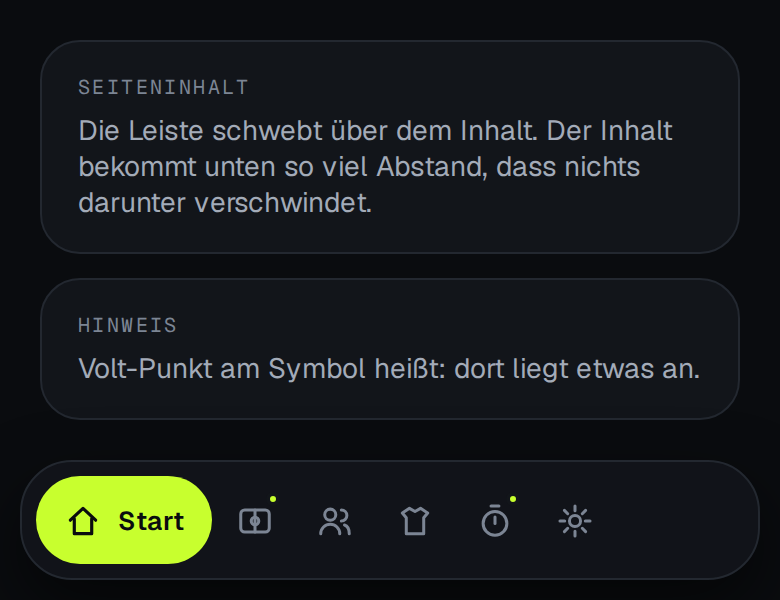
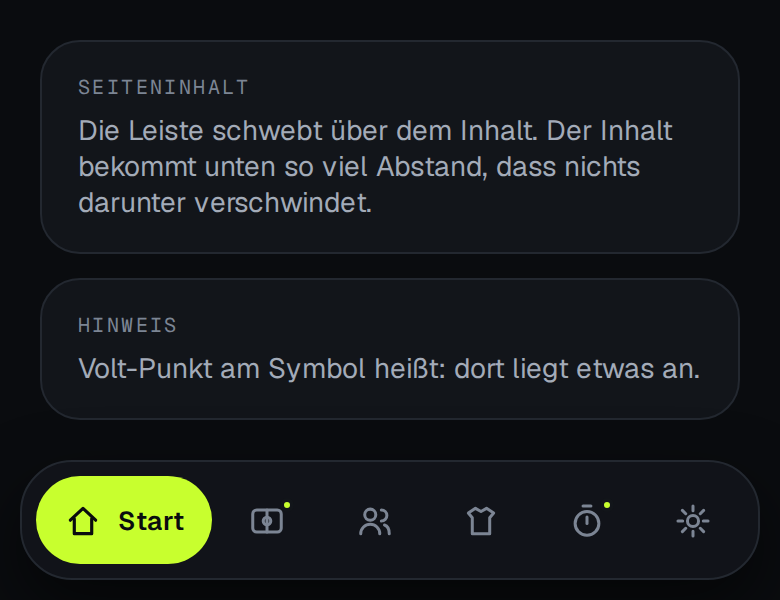
Menüleiste: inaktive Ziele füllen die Leiste randvoll (korrigierte Vorlage)
Die erste Umsetzung gab inaktiven Zielen eine feste 38px-Breite —
blieb bei fünf Zielen (Spieler-Ansicht) rechts sichtbar Leerraum in
der Leiste, statt dass sich die Ziele über die volle Breite verteilen.
Jetzt flex: 1 1 0 für inaktive statt fester Breite, aktives Ziel
flex: 0 0 auto; Transition entsprechend auf flex-grow/padding/gap/
Farbe umgestellt statt width.

Hinweispunkt hängt jetzt am Symbol selbst (eigener position:relative-
Wrapper um nur das SVG), nicht mehr an der ganzen (variabel breiten)
Spalte — sonst würde er bei einer breiten Spalte weit neben dem Symbol
schweben.

Claude-Session: https://claude.ai/code/session_01NRCwoA9JTKQ3Fh1Hs8P7yA

diff --git a/team-app/docs/design/tipoff-design/elements/08-menueleiste/menueleiste.html b/team-app/docs/design/tipoff-design/elements/08-menueleiste/menueleiste.html
@@ -47,23 +47,26 @@ body{margin:0;background:var(--to-bg);color:var(--to-text);
   box-shadow:0 14px 34px rgba(0,0,0,.55)}
 @media (min-width:430px){ .nav{left:calc(50% - 185px);right:auto;width:370px} }
 
+/* inaktiv: gleiche Spaltenbreite über die ganze Leiste; aktiv: nur so breit wie der Text */
 .tab{display:flex;align-items:center;justify-content:center;gap:0;
-  width:38px;height:44px;flex:none;border:0;border-radius:999px;background:transparent;
-  color:var(--to-text-3);text-decoration:none;position:relative;cursor:pointer;
+  flex:1 1 0;min-width:0;height:44px;padding:0;border:0;border-radius:999px;background:transparent;
+  color:var(--to-text-3);text-decoration:none;cursor:pointer;
   -webkit-tap-highlight-color:transparent;
-  transition:width .18s ease,background-color .18s ease,color .18s ease,padding .18s ease}
+  transition:flex-grow .18s ease,padding .18s ease,gap .18s ease,
+             background-color .18s ease,color .18s ease}
 .tab svg{width:19px;height:19px;flex:none;fill:none;stroke:currentColor;stroke-width:1.9;
   stroke-linecap:round;stroke-linejoin:round}
+.tab__icon{position:relative;display:flex;flex:none}
 .tab__label{max-width:0;overflow:hidden;white-space:nowrap;opacity:0;
   font-size:13px;font-weight:600;letter-spacing:-.01em;
-  transition:max-width .18s ease,opacity .14s ease,margin .18s ease}
+  transition:max-width .18s ease,opacity .14s ease}
 
-.tab[aria-current="page"]{width:auto;padding:0 14px;gap:8px;
+.tab[aria-current="page"]{flex:0 0 auto;padding:0 14px;gap:8px;
   background:var(--to-accent);color:var(--to-on-accent)}
 .tab[aria-current="page"] svg{stroke-width:2}
-.tab[aria-current="page"] .tab__label{max-width:140px;opacity:1}
+.tab[aria-current="page"] .tab__label{max-width:160px;opacity:1}
 
-.tab__dot{position:absolute;top:8px;right:6px;width:7px;height:7px;border-radius:50%;
+.tab__dot{position:absolute;top:-2px;right:-4px;width:7px;height:7px;border-radius:50%;
   background:var(--to-accent);border:2px solid #12151A}
 .tab[aria-current="page"] .tab__dot{display:none}
 
@@ -123,8 +126,8 @@ function render() {
     return '<a class="tab" href="#" data-key="' + k + '"' +
            (on ? ' aria-current="page"' : '') +
            ' aria-label="' + t.label + '">' +
-           '<svg viewBox="0 0 24 24" aria-hidden="true">' + t.icon + '</svg>' +
-           '<span class="tab__label">' + t.label + '</span>' + dot + '</a>';
+           '<span class="tab__icon"><svg viewBox="0 0 24 24" aria-hidden="true">' + t.icon + '</svg>' + dot + '</span>' +
+           '<span class="tab__label">' + t.label + '</span></a>';
   }).join('');
 }
 render();

diff --git a/team-app/src/components/BottomNav.tsx b/team-app/src/components/BottomNav.tsx
@@ -119,29 +119,31 @@ export function BottomNav() {
           end={item.end}
           aria-label={item.label}
           className={({ isActive }) =>
-            `relative flex h-11 flex-none cursor-pointer items-center justify-center gap-0 rounded-full text-to-text3 no-underline transition-[width,background-color,color,padding] duration-[180ms] ease-out ${
-              isActive ? 'w-auto gap-2 bg-to-accent px-3.5 text-to-onAccent' : 'w-[38px]'
+            `flex h-11 min-w-0 cursor-pointer items-center justify-center gap-0 rounded-full p-0 text-to-text3 no-underline transition-[flex-grow,padding,gap,background-color,color] duration-[180ms] ease-out ${
+              isActive ? 'flex-none gap-2 bg-to-accent px-3.5 text-to-onAccent' : 'flex-1'
             }`
           }
         >
           {({ isActive }) => (
             <>
-              <span className={isActive ? '[&_svg]:stroke-2' : ''}>
-                <item.Icon />
+              <span className="relative flex flex-none">
+                <span className={isActive ? '[&_svg]:stroke-2' : ''}>
+                  <item.Icon />
+                </span>
+                {!isActive && NO_BADGES.has(item.key) && (
+                  <>
+                    <span className="absolute -right-1 -top-0.5 h-[7px] w-[7px] rounded-full border-2 border-to-surface bg-to-accent" />
+                    <span className="sr-only">Es liegt etwas an</span>
+                  </>
+                )}
               </span>
               <span
-                className={`overflow-hidden whitespace-nowrap text-[13px] font-semibold -tracking-[0.01em] transition-[max-width,opacity,margin] duration-[180ms] ease-out ${
-                  isActive ? 'max-w-[140px] opacity-100' : 'max-w-0 opacity-0'
+                className={`overflow-hidden whitespace-nowrap text-[13px] font-semibold -tracking-[0.01em] transition-[max-width,opacity] duration-[180ms] ease-out ${
+                  isActive ? 'max-w-[160px] opacity-100' : 'max-w-0 opacity-0'
                 }`}
               >
                 {item.label}
               </span>
-              {!isActive && NO_BADGES.has(item.key) && (
-                <>
-                  <span className="absolute right-1.5 top-2 h-[7px] w-[7px] rounded-full border-2 border-to-surface bg-to-accent" />
-                  <span className="sr-only">Es liegt etwas an</span>
-                </>
-              )}
             </>
           )}
         </NavLink>

diff --git a/team-app/docs/design/tipoff-design/elements/08-menueleiste/PROMPT.md b/team-app/docs/design/tipoff-design/elements/08-menueleiste/PROMPT.md
@@ -30,19 +30,27 @@ Eintrag ersatzlos, die Leiste hat dann fünf Ziele (5-spieler-ohne-admin.png).
 Symbole als Strich-SVG wie in der Vorlage (Haus, Spielfeld mit Mittellinie, zwei Personen, Trikot,
 Stoppuhr, Sonne/Zahnrad). Keine Emojis, keine gefüllten Flächen.
 
-## Aktiv und inaktiv
-- inaktiv: 38×44, nur das Symbol in --to-text-3, Strichstärke 1.9
-- aktiv: dasselbe Element wird zur Kapsel – Breite auto, 14px Innenabstand links/rechts, 8px Abstand
-  zwischen Symbol und Text, Hintergrund --to-accent, Symbol und Text in --to-on-accent,
+## Aktiv und inaktiv – die Verteilung ist der Kern
+Die Leiste ist IMMER randvoll, rechts bleibt nie Leerraum:
+
+- inaktiv: `flex: 1 1 0; min-width: 0; padding: 0` – alle inaktiven Ziele teilen sich den
+  übrigen Platz zu gleichen Teilen, das Symbol sitzt mittig in seiner Spalte.
+  Höhe 44, Symbol in --to-text-3, Strichstärke 1.9, kein Text.
+- aktiv: dasselbe Element wird zur Kapsel – `flex: 0 0 auto`, 14px Innenabstand links/rechts,
+  8px zwischen Symbol und Text, Hintergrund --to-accent, Symbol und Text in --to-on-accent,
   Text 13px/600. Gekennzeichnet über aria-current="page", NICHT über eine Extra-Klasse allein.
-- Der Wechsel wird animiert: width, background-color, color und padding über .18s ease,
-  der Text über max-width (0 → 140px) und opacity. Kein Sprung, keine Extra-Bibliothek.
+- Kein festes Raster, keine feste Breite pro Ziel – nur flex. Dadurch stimmt die Verteilung
+  auch bei fünf Zielen (Spieler) und auf jeder Bildschirmbreite.
+- Der Wechsel wird animiert: flex-grow, padding, gap, background-color und color über .18s ease,
+  der Text über max-width (0 → 160px) und opacity. Kein Sprung, keine Extra-Bibliothek.
 - Alle sechs passen nebeneinander, auch wenn „Kampfgericht" aktiv ist (Vorlage prüfen, 370px Leiste).
   Die Beschriftung wird NICHT gekürzt.
 
 ## Hinweispunkt (neu)
-Jedes inaktive Ziel kann einen volt Punkt tragen (7px, 2px Rand in der Leistenfarbe, oben rechts am
-Symbol), wenn dort etwas offen ist:
+Jedes inaktive Ziel kann einen volt Punkt tragen (7px, 2px Rand in der Leistenfarbe), wenn dort etwas
+offen ist. Der Punkt hängt am SYMBOL, nicht an der Spalte: das SVG steckt dafür in einem
+`<span class="tab__icon">` mit position: relative, der Punkt sitzt darin oben rechts (-2px/-4px).
+Sonst würde er bei breiten Spalten weit neben dem Symbol schweben.
 - Spiele: eigene Zu-/Absage für ein veröffentlichtes Kader-Spiel steht aus
 - Kampfgericht: eigener Einsatz in den nächsten 7 Tagen
 - Team, Trikots, Admin: vorerst kein Punkt
